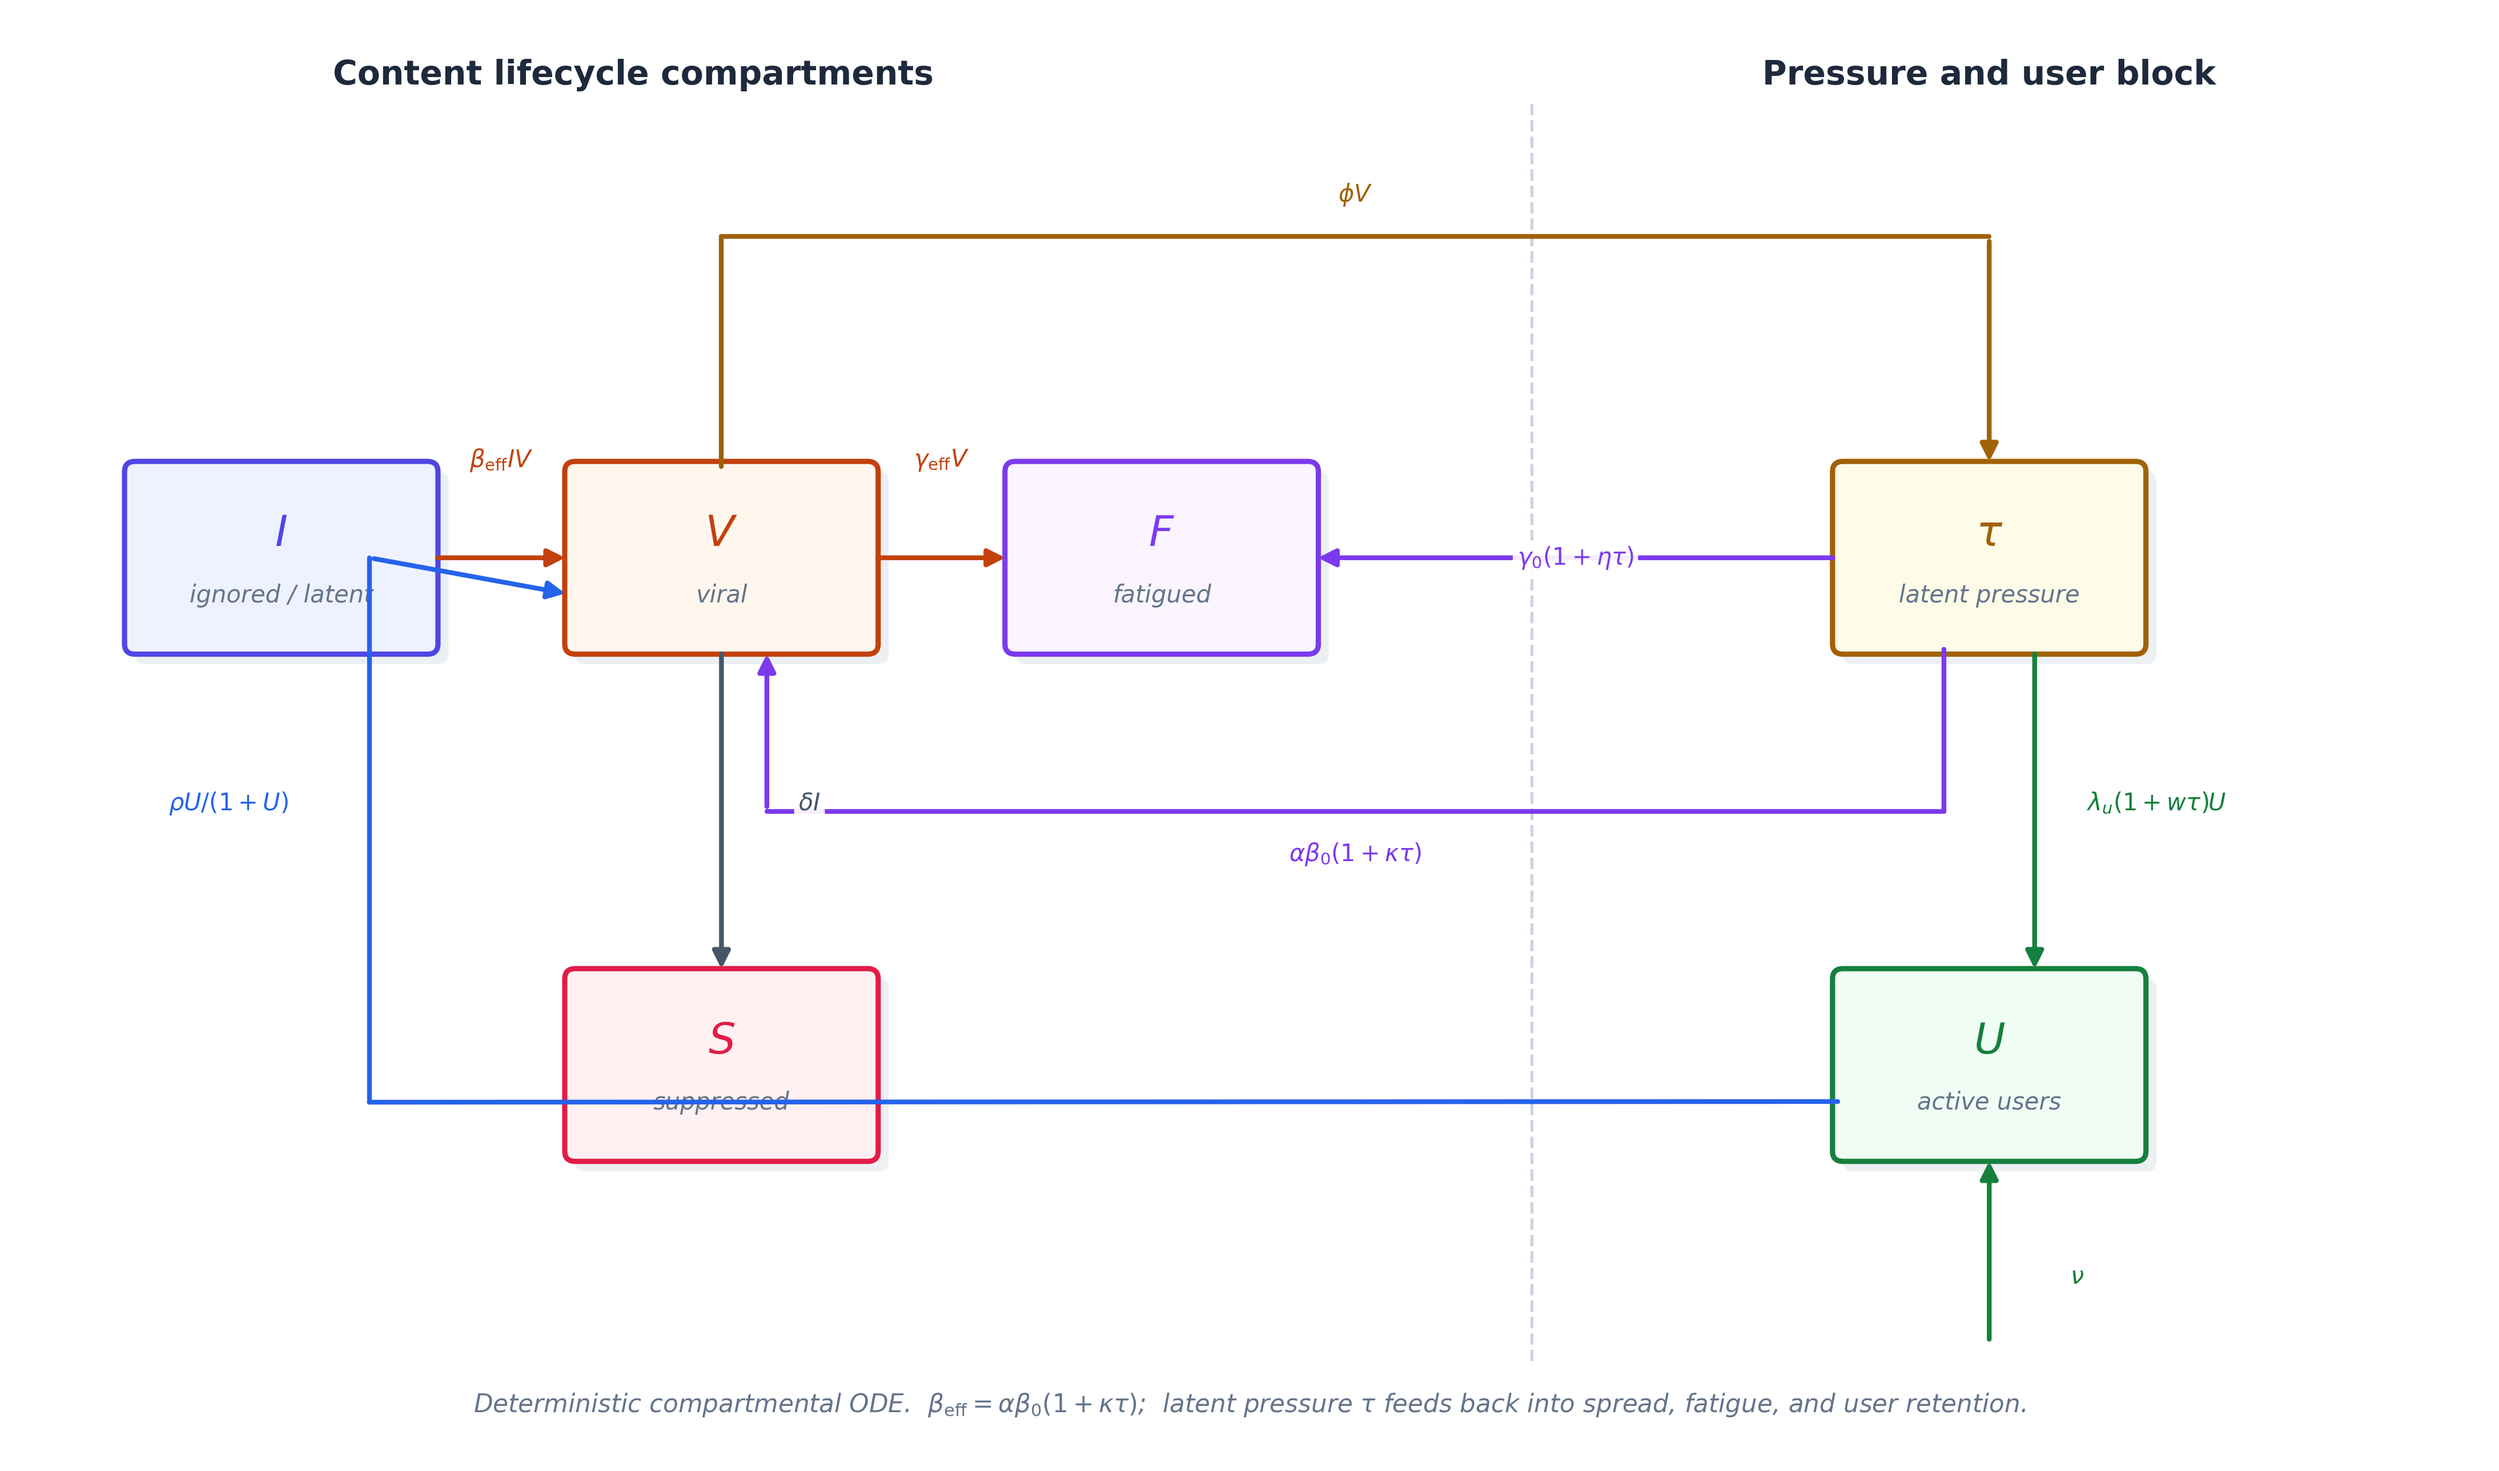
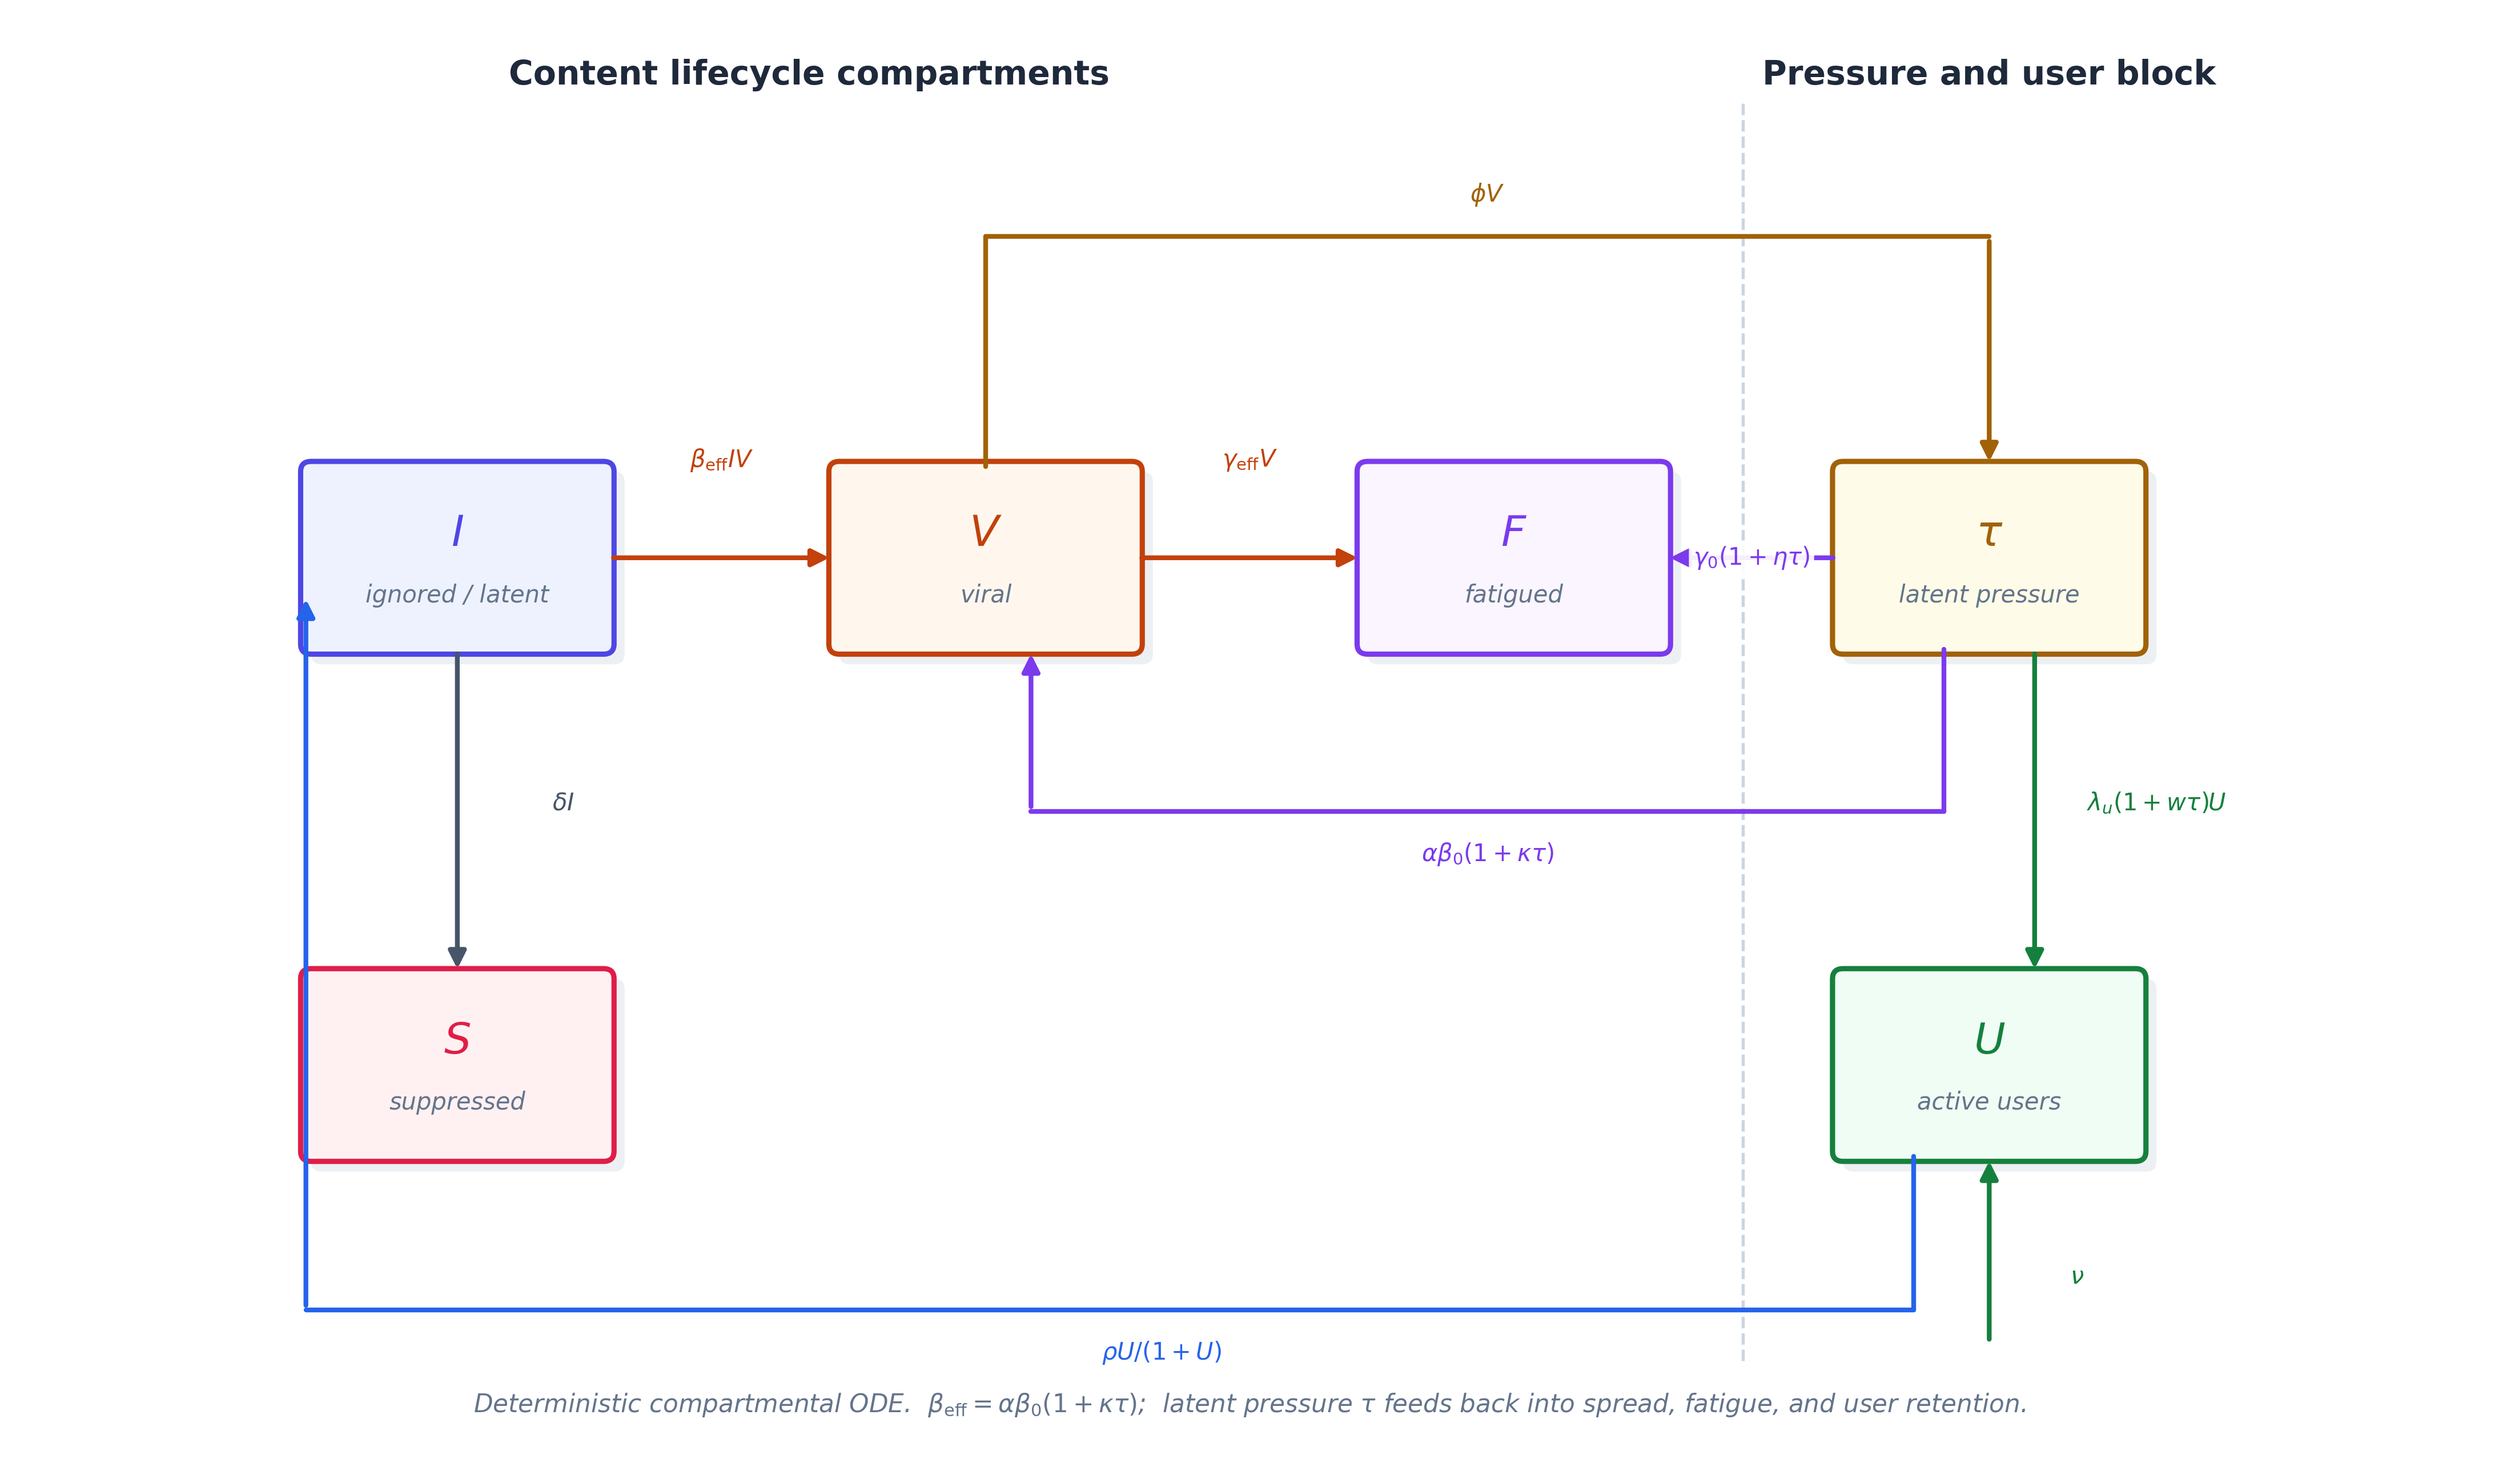
fix structure diagram

diff --git a/code/model_structure_figure.py b/code/model_structure_figure.py
@@ -41,10 +41,10 @@ CLR = {
 
 # Box centres
 C = {
-    'I': (1.5, 5.3),
-    'V': (4.0, 5.3),
-    'F': (6.5, 5.3),
-    'S': (4.0, 2.3),
+    'I': (2.5, 5.3),
+    'V': (5.5, 5.3),
+    'F': (8.5, 5.3),
+    'S': (2.5, 2.3),
     'T': (11.2, 5.3),
     'U': (11.2, 2.3),
 }
@@ -115,8 +115,8 @@ def main():
     ax.set_ylim(0, 8.5)
     ax.axis('off')
 
-    ax.plot([8.6, 8.6], [0.55, 8.0], color='#CBD5E1', lw=1.3, ls='--', zorder=0)
-    ax.text(3.5, 8.10, 'Content lifecycle compartments',
+    ax.plot([9.8, 9.8], [0.55, 8.0], color='#CBD5E1', lw=1.3, ls='--', zorder=0)
+    ax.text(4.5, 8.10, 'Content lifecycle compartments',
             fontsize=14, fontweight='bold', color='#1E293B', ha='center')
     ax.text(11.2, 8.10, 'Pressure and user block',
             fontsize=14, fontweight='bold', color='#1E293B', ha='center')
@@ -130,13 +130,14 @@ def main():
 
     # I -> V
     straight(ax, edge('I', 'r'), edge('V', 'l'),
-             r'$\beta_{\mathrm{eff}}IV$', (2.75, 5.88), CLR['spread'])
+             r'$\beta_{\mathrm{eff}}IV$', (4.0, 5.88), CLR['spread'])
     # V -> F
     straight(ax, edge('V', 'r'), edge('F', 'l'),
-             r'$\gamma_{\mathrm{eff}}V$', (5.25, 5.88), CLR['spread'])
-    # V -> S
-    straight(ax, edge('V', 'b'), edge('S', 't'),
-             r'$\delta I$', (4.50, 3.85), CLR['suppress'])
+             r'$\gamma_{\mathrm{eff}}V$', (7.0, 5.88), CLR['spread'])
+    # V -> S  (moderation: delta*I diverts content from I to S)
+    # Actually I -> S, but the original label says delta*I
+    straight(ax, edge('I', 'b'), edge('S', 't'),
+             r'$\delta I$', (3.1, 3.85), CLR['suppress'])
     # tau -> U  (right side of the pressure column)
     straight(ax, edge('T', 'b', 0.65), edge('U', 't', 0.65),
              r'$\lambda_u(1+w\tau)U$', (12.15, 3.85), CLR['user'])
@@ -145,7 +146,7 @@ def main():
              r'$\nu$', (C['U'][0] + 0.50, 1.05), CLR['user'])
     # tau -> F  (gamma_0 feedback, straight across the open corridor)
     straight(ax, edge('T', 'l'), edge('F', 'r'),
-             r'$\gamma_0(1+\eta\tau)$', (8.85, 5.30), CLR['fb'])
+             r'$\gamma_0(1+\eta\tau)$', (9.85, 5.30), CLR['fb'])
 
     # === ROUTED ARROWS (explicit orthogonal waypoints) ========================
 
@@ -156,7 +157,7 @@ def main():
             (C['V'][0], 7.2),
             (C['T'][0], 7.2),
             edge('T', 't')],
-           r'$\phi V$', (7.6, 7.45), CLR['gen'])
+           r'$\phi V$', (8.35, 7.45), CLR['gen'])
 
     # alpha*beta_0*(1+kappa*tau) :  tau -> V  (LOW route, below the box row)
     # tau bottom -> down to y=3.8 -> left to V_bottom_x -> up into V bottom
@@ -167,16 +168,17 @@ def main():
             (tau_bx, 3.8),
             (v_bx, 3.8),
             edge('V', 'b', 0.65)],
-           r'$\alpha\beta_0(1+\kappa\tau)$', (7.6, 3.55), CLR['fb'])
+           r'$\alpha\beta_0(1+\kappa\tau)$', (8.35, 3.55), CLR['fb'])
 
-    # rho*U/(1+U) :  U -> V  (wide route far left, around S)
-    # U left -> left to x=2.0 -> up to V_cy -> right into V left
+    # rho*U/(1+U) :  U -> I  (route BELOW S: U bottom -> down -> left -> up to I left)
+    u_bot = edge('U', 'b', 0.25)
+    i_left = edge('I', 'l', 0.30)
     routed(ax,
-           [edge('U', 'l', 0.30),
-            (2.0, C['U'][1] - 0.22),
-            (2.0, C['V'][1]),
-            edge('V', 'l', 0.30)],
-           r'$\rho U/(1+U)$', (1.2, 3.85), CLR['recruit'])
+           [u_bot,
+            (u_bot[0], 0.85),
+            (i_left[0], 0.85),
+            i_left],
+           r'$\rho U/(1+U)$', (6.5, 0.60), CLR['recruit'])
 
     # === CAPTION ==============================================================
     ax.text(
